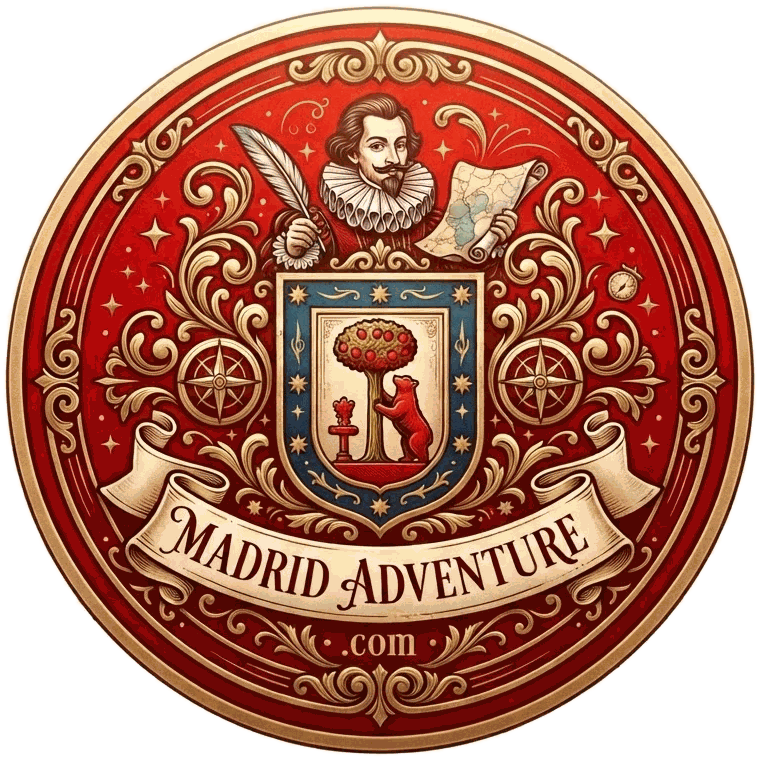
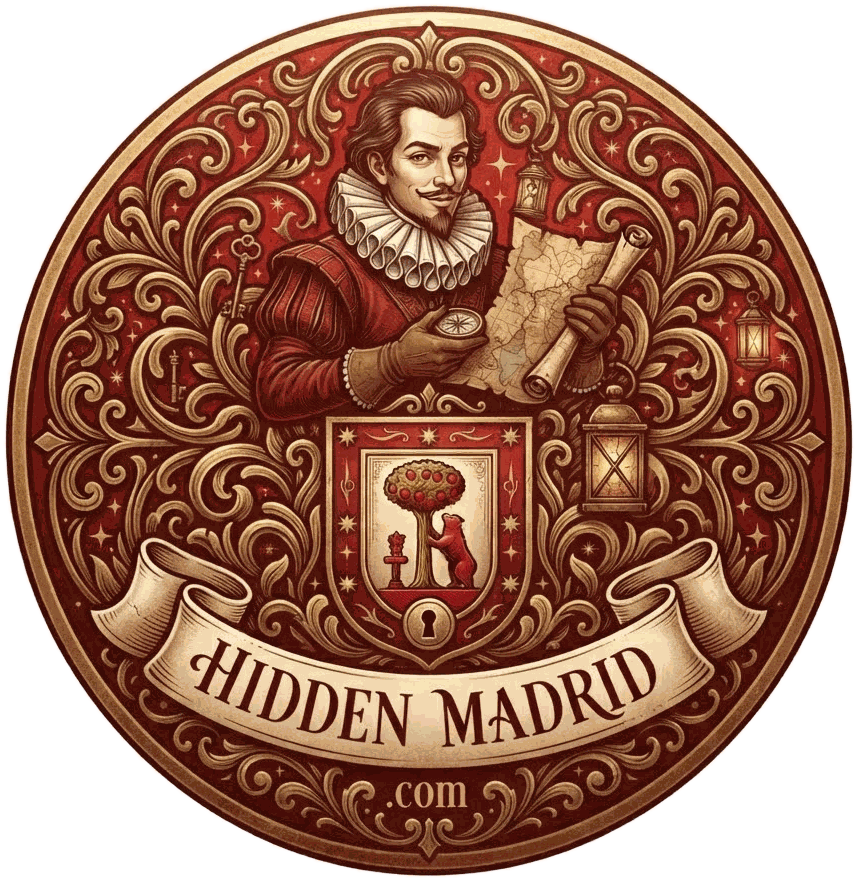
Nuevo sello "Hidden Madrid" (proporcionado por el usuario)
Sustituye el sello "Madrid Adventure" por el nuevo, con el mismo
tratamiento de siempre: recorte por flood-fill del fondo blanco a un
PNG transparente, compuesto sobre el mismo degradado marrón/dorado
del icono para no romper la identidad visual. Ahora el propio sello
coincide con el texto "HiddenMadrid" ya actualizado en la app.

- img/emblem.png, icons/icon-192.png, icons/icon-512.png: regenerados.
- Bump de caché a v27.

diff --git a/index.html b/index.html
@@ -9,7 +9,7 @@
   <link rel="manifest" href="manifest.webmanifest" />
   <link rel="icon" href="icons/icon-192.png" type="image/png" />
   <link rel="apple-touch-icon" href="icons/icon-192.png" />
-  <link rel="stylesheet" href="css/styles.css?v=26" />
+  <link rel="stylesheet" href="css/styles.css?v=27" />
 </head>
 <body>
   <div id="app">
@@ -29,12 +29,12 @@
   <!-- Plantilla de aviso (toast) -->
   <div id="toast" class="toast hidden" role="status"></div>
 
-  <script src="js/i18n.js?v=26"></script>
-  <script src="js/data.js?v=26"></script>
-  <script src="js/art.js?v=26"></script>
-  <script src="js/license.js?v=26"></script>
-  <script src="js/engine.js?v=26"></script>
-  <script src="js/app.js?v=26"></script>
+  <script src="js/i18n.js?v=27"></script>
+  <script src="js/data.js?v=27"></script>
+  <script src="js/art.js?v=27"></script>
+  <script src="js/license.js?v=27"></script>
+  <script src="js/engine.js?v=27"></script>
+  <script src="js/app.js?v=27"></script>
   <script>
     if ("serviceWorker" in navigator && location.protocol === "https:") {
       navigator.serviceWorker.register("sw.js").catch(() => {});

diff --git a/sw.js b/sw.js
@@ -1,6 +1,6 @@
 /* Service worker: juego 100% offline una vez cargado.
    Importante en la calle, donde la cobertura falla. */
-const CACHE = "testamento-v26";
+const CACHE = "testamento-v27";
 const ASSETS = [
   "./img/app_bg.jpg",
   "./img/home_madrid.jpg",
